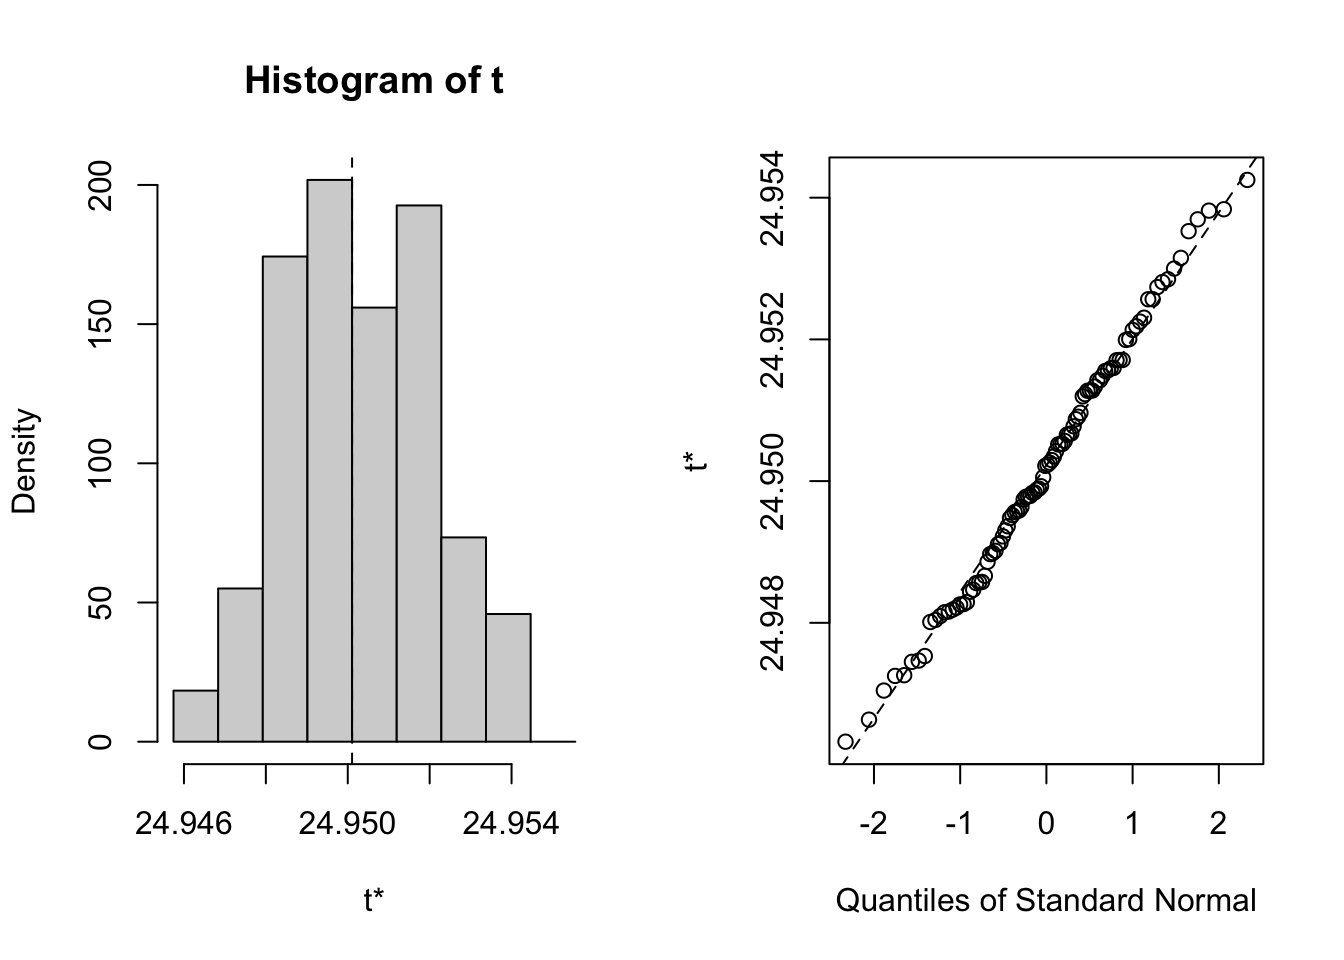
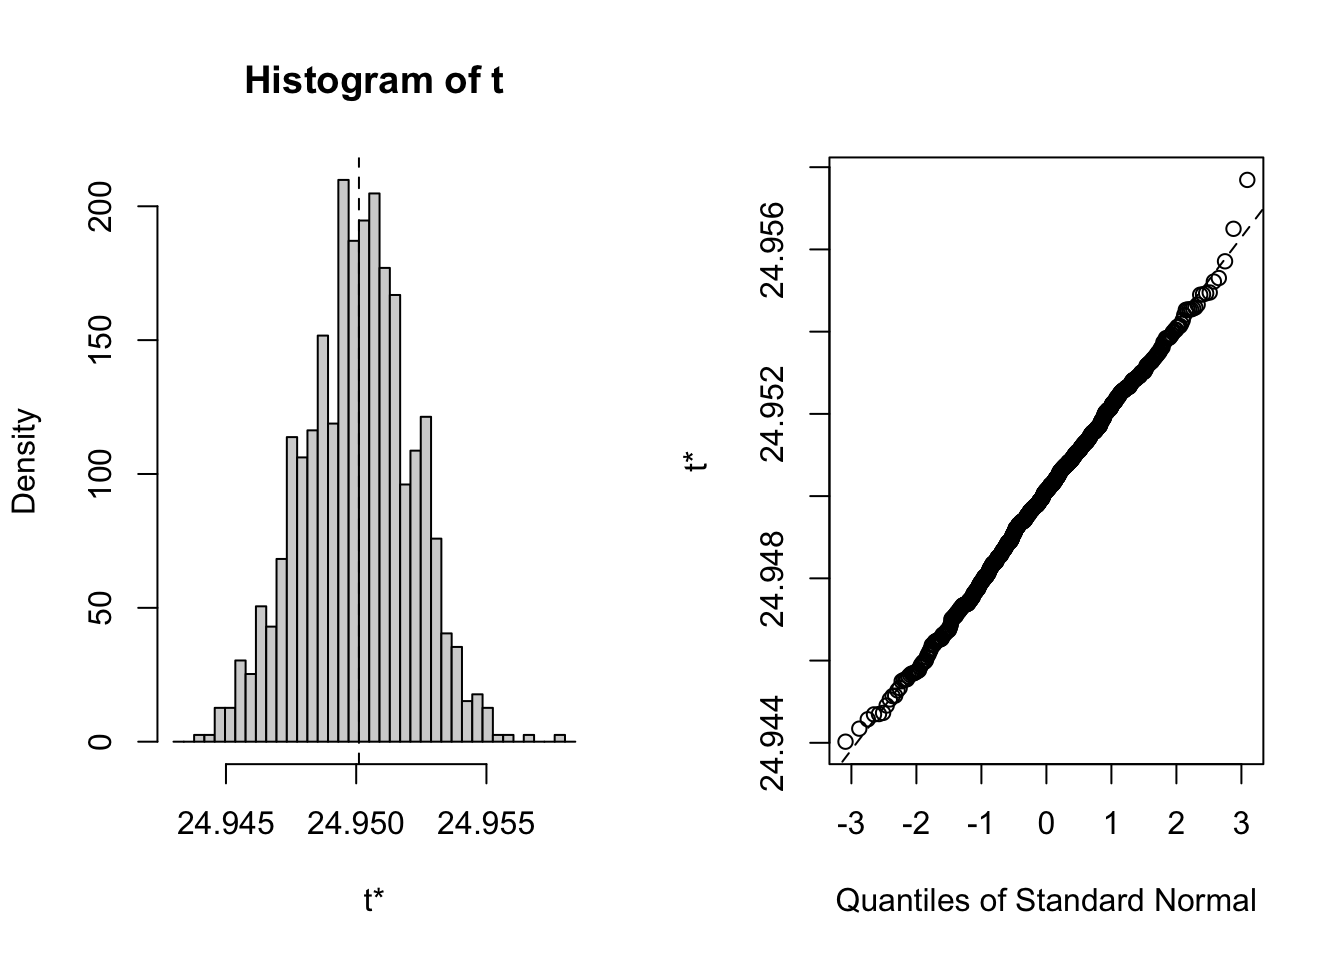
Regression Models

diff --git a/content/post/2022-03-26-regression-models/index.html b/content/post/2022-03-26-regression-models/index.html
@@ -1,0 +1,104 @@
+---
+title: Regression Models
+author: R package build
+date: '2022-03-26'
+slug: regression-models
+categories: []
+tags: []
+---
+
+<script src="{{< blogdown/postref >}}index_files/header-attrs/header-attrs.js"></script>
+
+
+<div id="libraries" class="section level2">
+<h2>Libraries</h2>
+<pre class="r"><code>library(tidyverse)</code></pre>
+<pre><code>## ── Attaching packages ─────────────────────────────────────── tidyverse 1.3.1 ──</code></pre>
+<pre><code>## ✓ ggplot2 3.3.5     ✓ purrr   0.3.4
+## ✓ tibble  3.1.6     ✓ dplyr   1.0.8
+## ✓ tidyr   1.2.0     ✓ stringr 1.4.0
+## ✓ readr   2.1.2     ✓ forcats 0.5.1</code></pre>
+<pre><code>## ── Conflicts ────────────────────────────────────────── tidyverse_conflicts() ──
+## x dplyr::filter() masks stats::filter()
+## x dplyr::lag()    masks stats::lag()</code></pre>
+<pre class="r"><code>library(ISLR)
+library(boot)
+library(readxl)</code></pre>
+<p>#Get Data</p>
+<pre class="r"><code>df &lt;- read_excel(&quot;data/Professor_Proposes_Data.xlsx&quot;)
+df$Price &lt;- as.numeric(df$Price)
+df$Wholesaler &lt;- as.factor(df$Wholesaler)</code></pre>
+<pre class="r"><code>#Set seed
+set.seed(1)
+head(df)</code></pre>
+<pre><code>## # A tibble: 6 × 9
+##   Carat Colour Clarity Cut   Certification Polish Symmetry Price Wholesaler
+##   &lt;dbl&gt; &lt;chr&gt;  &lt;chr&gt;   &lt;chr&gt; &lt;chr&gt;         &lt;chr&gt;  &lt;chr&gt;    &lt;dbl&gt; &lt;fct&gt;     
+## 1  0.92 I      SI2     G     AGS           V      V         3000 1         
+## 2  0.92 I      SI2     V     AGS           G      G         3000 1         
+## 3  0.82 F      SI2     I     GIA           X      X         3004 1         
+## 4  0.81 G      SI1     I     GIA           X      V         3004 1         
+## 5  0.9  J      VS2     V     GIA           V      V         3006 1         
+## 6  0.87 F      SI2     I     AGS           G      V         3007 1</code></pre>
+<pre class="r"><code>dim(df)</code></pre>
+<pre><code>## [1] 440   9</code></pre>
+<pre class="r"><code>#Index
+train &lt;- sample(440,220)
+head(train)</code></pre>
+<pre><code>## [1] 324 167 129 418 299 270</code></pre>
+<pre class="r"><code># focus on Wholesaler 1 and 2 rather than Wholesaler 3
+dfw &lt;- df %&gt;%
+    filter(Wholesaler == 3)
+
+max(dfw$Carat)</code></pre>
+<pre><code>## [1] 0.3</code></pre>
+</div>
+<div id="graph" class="section level1">
+<h1>Graph</h1>
+<pre class="r"><code>df %&gt;%
+    ggplot(aes(x=Carat, y = Price, color = Wholesaler)) +
+        geom_point()      </code></pre>
+<p><img src="{{< blogdown/postref >}}index_files/figure-html/unnamed-chunk-5-1.png" width="672" /></p>
+<pre class="r"><code>dfw23 &lt;- df %&gt;%
+  filter(Wholesaler == 2 | Wholesaler == 1)
+
+dim(dfw23)</code></pre>
+<pre><code>## [1] 240   9</code></pre>
+<pre class="r"><code>dfw23 %&gt;% 
+  ggplot(aes(x = Carat, y = Price, color = Wholesaler 
+    )) +
+  geom_point()</code></pre>
+<p><img src="{{< blogdown/postref >}}index_files/figure-html/unnamed-chunk-6-1.png" width="672" /></p>
+<pre class="r"><code>attach(dfw23)</code></pre>
+</div>
+<div id="boot-function" class="section level1">
+<h1>Boot Function</h1>
+<pre class="r"><code># Dimension of new data frame
+dim(dfw23)</code></pre>
+<pre><code>## [1] 240   9</code></pre>
+<pre class="r"><code>boot.fn &lt;- function(data, index) {
+  return(coef(lm(Price~Carat + Colour + Clarity+ Cut + Certification + Polish + Symmetry, data = data , subset = index)))
+}
+set.seed(1)
+boot.fn(dfw23, sample(240, 240, replace=T))</code></pre>
+<pre><code>##      (Intercept)            Carat          ColourE          ColourF 
+##       -288.74062       2686.45720         18.51261       -224.88330 
+##          ColourG          ColourH          ColourI          ColourJ 
+##       -238.96022       -253.52221       -341.90000       -465.49086 
+##          ColourK          ColourL        ClarityI2       ClaritySI1 
+##       -818.33910       -837.45941       -608.56655        788.85591 
+##       ClaritySI2       ClaritySI3       ClarityVS1       ClarityVS2 
+##        618.77332        445.77349        896.14503        775.63368 
+##             CutG             CutI             CutV             CutX 
+##         11.87492         39.87405         15.51392         78.05411 
+## CertificationDOW CertificationEGL CertificationGIA          PolishG 
+##       -478.03814       -340.56238        -15.23534        489.84803 
+##          PolishI          PolishV          PolishX        SymmetryG 
+##        533.65413        523.57452        491.24182         72.08555 
+##        SymmetryI        SymmetryV        SymmetryX 
+##               NA         82.01461         59.89269</code></pre>
+</div>
+<div id="answer" class="section level1">
+<h1>Answer</h1>
+<p>The price that the professor found is $3100 for a specific diamond. I looked at the data and added up all of the coefficients to get the price from my calculations. The price that I found equals to 2,844 dollars which is 300 dollars off the original value. If the intercept value was not included than the predicted value would be 3,132 dollars.</p>
+</div>

diff --git a/content/post/2022-03-18-modeling-for-prediction/index.html b/content/post/2022-03-18-modeling-for-prediction/index.html
@@ -195,7 +195,7 @@ boot.fn &lt;- function(data, index){
 boot.fn(real_estate_data,sample(414, 414, replace=T))</code></pre>
 <pre><code>##                (Intercept) Y_house_price_of_unit_area 
 ##               24.954110345                0.000389347</code></pre>
-<pre class="r"><code>boot.output &lt;- boot(real_estate_data, boot.fn, 100)
+<pre class="r"><code>boot.output &lt;- boot(real_estate_data, boot.fn, 1000)
 plot(boot.output)</code></pre>
 <p><img src="{{< blogdown/postref >}}index_files/figure-html/unnamed-chunk-8-1.png" width="672" /></p>
 </div>

diff --git a/content/post/2022-03-26-regression-models/index_files/header-attrs/header-attrs.js b/content/post/2022-03-26-regression-models/index_files/header-attrs/header-attrs.js
@@ -1,0 +1,12 @@
+// Pandoc 2.9 adds attributes on both header and div. We remove the former (to
+// be compatible with the behavior of Pandoc < 2.8).
+document.addEventListener('DOMContentLoaded', function(e) {
+  var hs = document.querySelectorAll("div.section[class*='level'] > :first-child");
+  var i, h, a;
+  for (i = 0; i < hs.length; i++) {
+    h = hs[i];
+    if (!/^h[1-6]$/i.test(h.tagName)) continue;  // it should be a header h1-h6
+    a = h.attributes;
+    while (a.length > 0) h.removeAttribute(a[0].name);
+  }
+});
